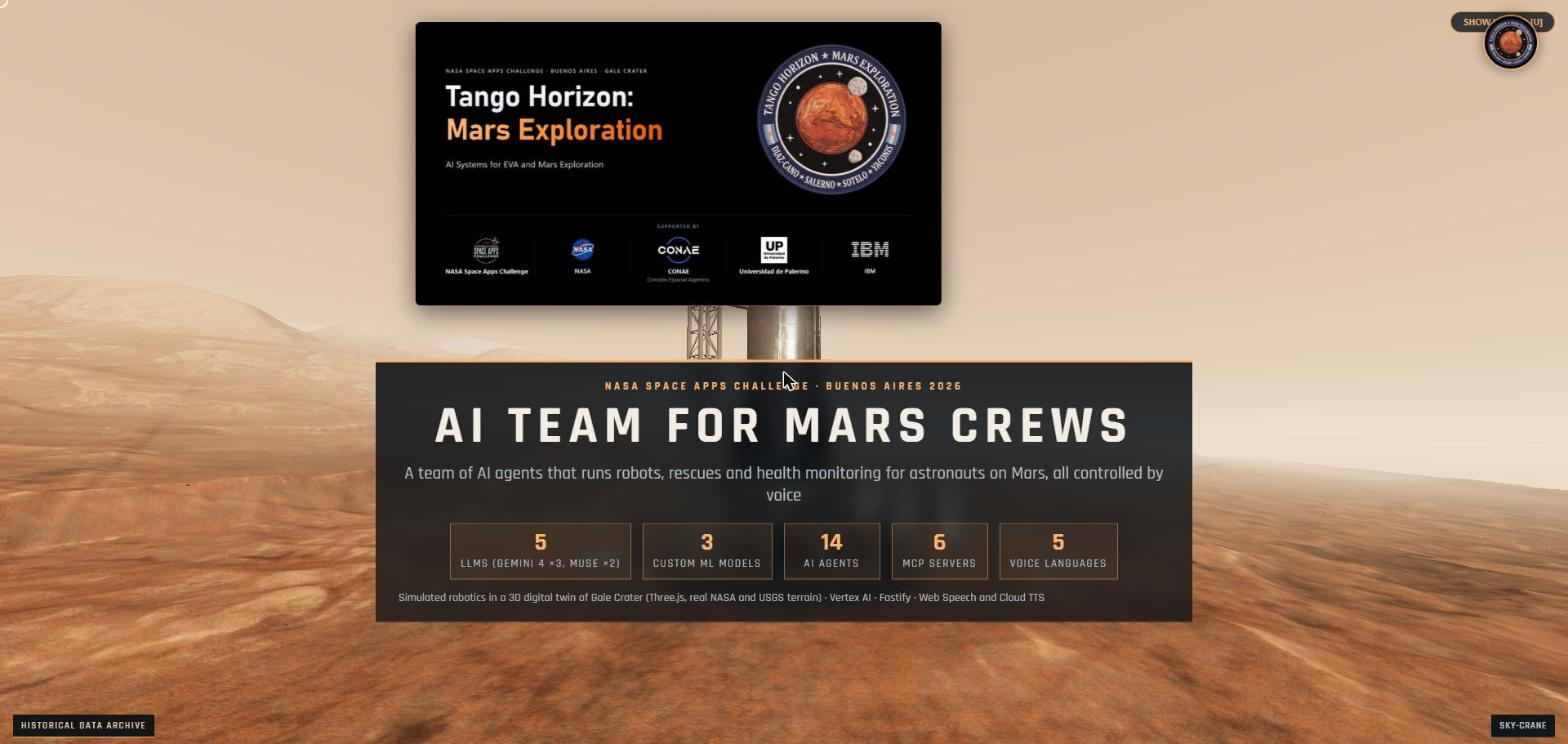
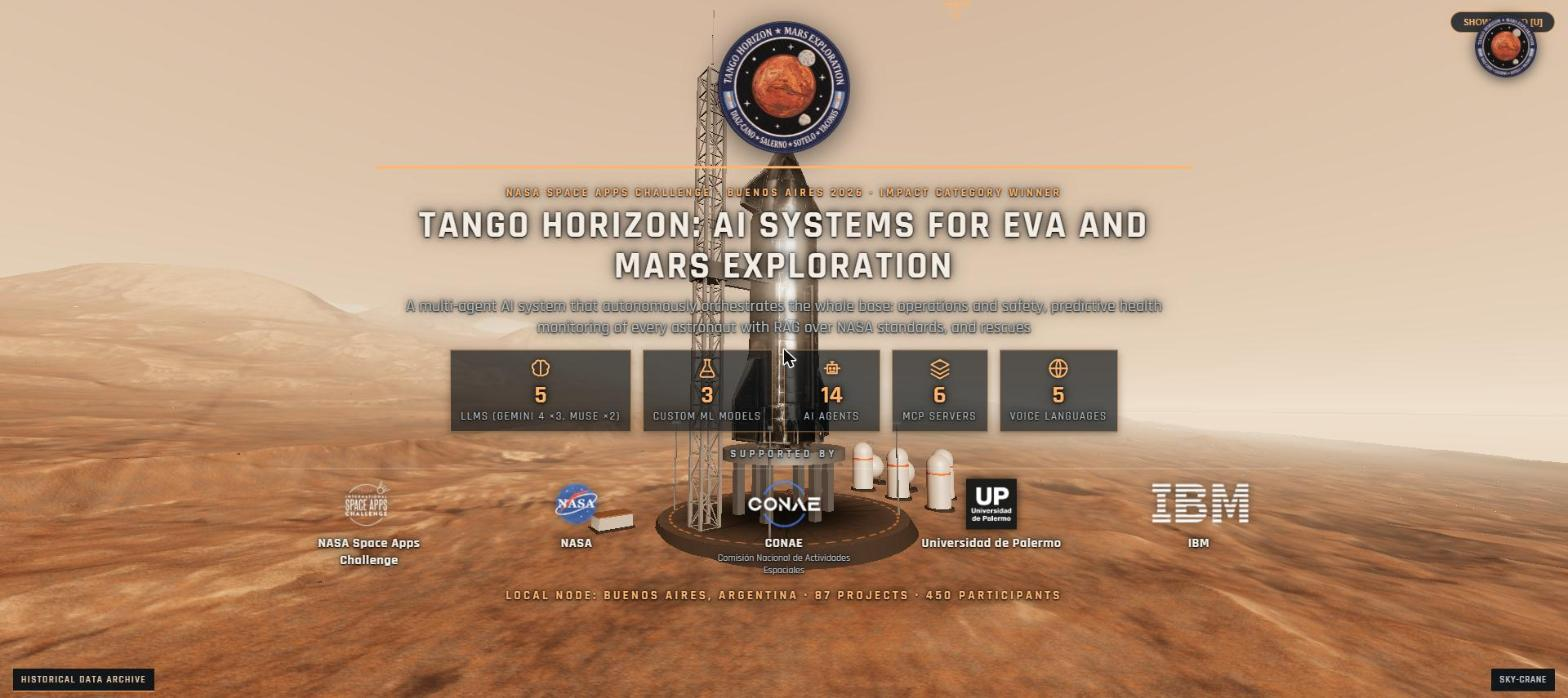
docs: new README screenshots (cover, operation map, pod with parachute, orchestrator) and drop the removed pod-opening picture

diff --git a/README_ES.md b/README_ES.md
@@ -76,7 +76,7 @@
 </tr>
 <tr>
 <td width="50%"><img src="docs/media/life-support-pod.jpg" alt="Cápsula de soporte vital con paracaídas" width="100%" /><br/><sub>La cápsula de soporte vital desciende en paracaídas hacia el astronauta.</sub></td>
-<td width="50%"><img src="docs/media/life-support-payload.jpg" alt="Cápsula de soporte vital abierta" width="100%" /><br/><sub>La cápsula se abre: tanque de oxígeno, depurador de CO2, batería y parche del traje.</sub></td>
+<td width="50%"><img src="docs/media/operation-map.jpg" alt="Mapa de la operación con las rutas elegidas por los agentes" width="100%" /><br/><sub>Mapa de la operación: ruta de rescue-1 hallada con A*, líneas de sobrevuelo de los drones, rovers y los cuatro astronautas, sobre el relieve de HiRISE.</sub></td>
 </tr>
 <tr>
 <td width="50%"><img src="docs/media/rescue-casualty-pit.jpg" alt="Rescate en el pozo" width="100%" /><br/><sub>El robot de rescate y el astronauta en el pozo.</sub></td>

diff --git a/README.md b/README.md
@@ -77,7 +77,7 @@
 </tr>
 <tr>
 <td width="50%"><img src="docs/media/life-support-pod.jpg" alt="Life-support pod with parachute" width="100%" /><br/><sub>The life-support pod descends on its parachute toward the astronaut.</sub></td>
-<td width="50%"><img src="docs/media/life-support-payload.jpg" alt="Opened life-support pod" width="100%" /><br/><sub>The pod opens: oxygen tank, CO2 scrubber, battery and suit patch.</sub></td>
+<td width="50%"><img src="docs/media/operation-map.jpg" alt="Operation map with the routes chosen by the agents" width="100%" /><br/><sub>Operation map: rescue-1 route found by A*, drone overwatch lines, rovers and the four astronauts, over the HiRISE relief.</sub></td>
 </tr>
 <tr>
 <td width="50%"><img src="docs/media/rescue-casualty-pit.jpg" alt="Rescue at the pit" width="100%" /><br/><sub>The rescue robot and the astronaut at the pit.</sub></td>
